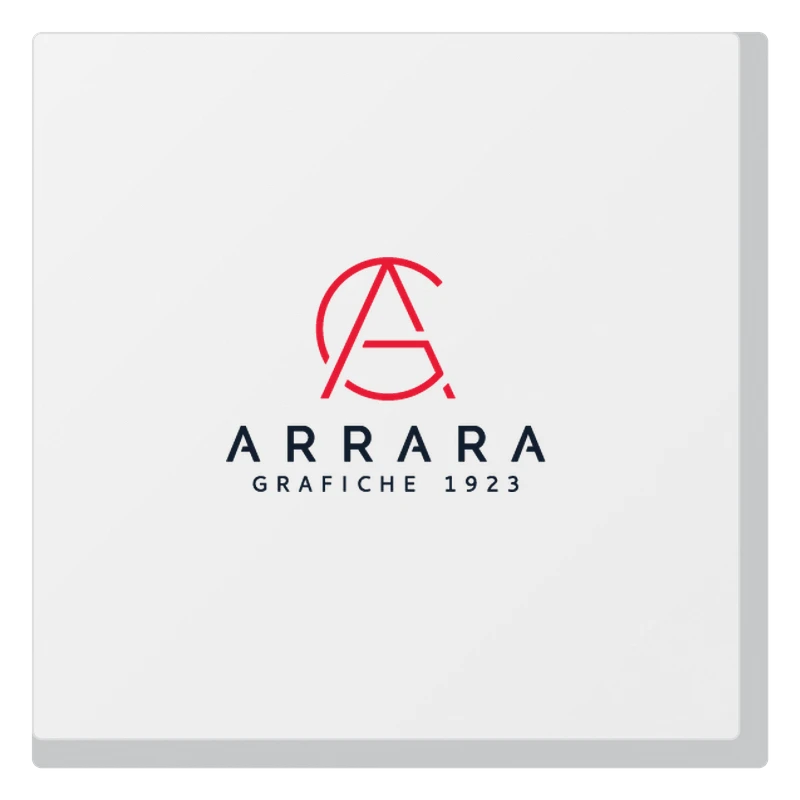
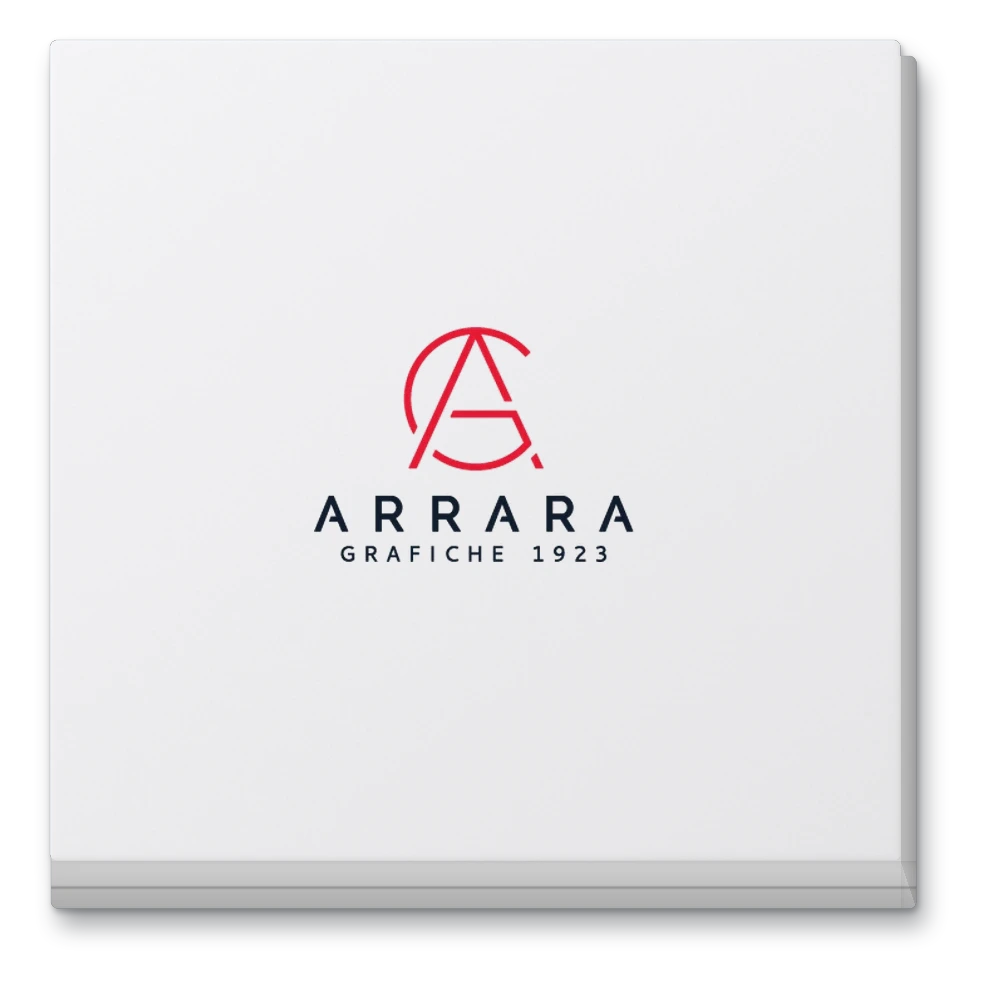
Produzione: scatola bianca con ombra e spigoli più realistici
Claude-Session: https://claude.ai/code/session_01GPtTgz3X4Rj7yyp6aB7ZXu

diff --git a/src/ambiti.css b/src/ambiti.css
@@ -80,4 +80,4 @@
 /* Scatole: il box di testo compare solo quando la scatola ha finito di ruotare */
 .prod-fly #scatole>.am-copy{opacity:0;transform:translateX(-48px);transition:opacity .7s ease,transform .8s cubic-bezier(.2,.7,.2,1)}
 .prod-fly #scatole.box-done>.am-copy{opacity:1;transform:none}
-.bx-box--small{left:3%;top:auto;bottom:6%;margin-top:0;width:33%;z-index:2}
+.bx-box--small{left:3%;top:auto;bottom:5%;margin-top:0;width:36%;z-index:2}

diff --git a/wiki/log.md b/wiki/log.md
@@ -777,3 +777,4 @@ Ordine cronologico, più recente in fondo.
 - Scatole: aggiunta scatolina bianca con logo Arrara (`assets/scatola-arrara.webp`, generata: coperchio bianco + logo con testo scuro), in basso a sinistra del palco; entra da sinistra ruotando (+330° → -14°), con ombra, leggermente in ritardo sulla scatola Pastel. Il box di testo compare quando entrambe sono ferme.
 - Scatole: le due scatole non si sovrappongono (posizionate in modo assoluto: Pastel a destra al 54%, Arrara in basso a sinistra al 24%); la scatolina bianca entra in diagonale da fuori in alto a sinistra dello schermo.
 - Scatole: entrambe le scatole ingrandite (Pastel 62%, Arrara 33% dell'area) e molto più vicine a fine movimento, senza sovrapporsi; area più alta.
+- Scatole: scatola bianca Arrara rigenerata con spessore, scanalatura coperchio/base, spigoli smussati e ombra di contatto più realistici (scatola-arrara.webp); larghezza 36%.
